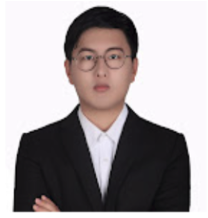
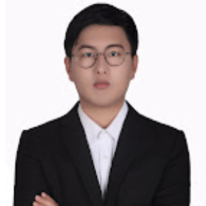
modify

diff --git a/index.html b/index.html
@@ -49,8 +49,8 @@
               </div>
               <div class="row">
                 <div class="col-md-8 col-md-offset-2 text-center inner">
-                  <h1 class="animated fadeInDown"><span>Light Up The Earth</span></h1>
-                  <p class="animated fadeInUp delay-05s" style="font-size: 20px;">A leisure PUZ game made by <em>Nine-AM</em></p>
+                  <h1 class="animated fadeInDown" id="teamname">Light Up The Earth</h1>
+                  <p class="animated fadeInUp delay-05s" style="font-size: 20px;" >A leisure PUZ game made by <em>Nine-AM</em></p>
                 </div>
               </div>
               <div class="row">
@@ -61,11 +61,12 @@
             </div>
           </section>
         </header>
-        <section class="intro text-center section-padding" id="intro">
+        <section class="intro text-center section-padding" id="intro" >
           <div class="container">
             <div class="row">
               <div class="col-md-8 col-md-offset-2 wp1">
                 <h1 class="arrow">Game Background Story Plot</h1>
+                <img src="img/LOGO.jpg" id="logo">
                 <!-- <p>Sed a lorem quis neque interdum <a href="#">consequat ut sed sem</a>. Duis quis tempor nunc. Interdum et malesuada fames ac ante ipsum primis in faucibus. Praesent id tempor ipsum. Fusce at massa ac nunc porta fringilla sed eget neque. Quisque quis pretium nulla. Fusce eget bibendum neque, vel volutpat augue. Lorem ipsum dolor sit amet, consectetur adipiscing elit. Interdum et malesuada fames ac ante ipsum primis in faucibus.</p> -->
                 <p>The background storyline of this game is based on <b style="color: #363636;">energy shortage and even depletion on Earth</b> many years later. Its main purpose is to remind everyone to <b style="color: #363636;">save energy and protect our Earth</b> by capturing and obtaining energy from space. <br /><br />“In 2066, earth resources deplete, and life on earth need more energy to survive. You, the bravest fighters, must go to space and take as much space energy as you can back to our planet! Now, please get on your spaceship and our mission will soon begin.”</p>
               </div>
@@ -274,65 +275,75 @@
                   <ul class="slides">
                     <li>
                       <div class="col-md-4 wp5">
-                        <img src="img/2-1.jpg" alt="Team Member">
+                        <img src="img/2-1.png" alt="Team Member">
                         <h2>Shenqi Ye</h2>
+                        <p>USC Graduate Student</p>
                         <p>Leader</p>
                         <div class="social">
                           <ul class="social-buttons">
                             <!-- <li><a href="#" class="social-btn"><i class="fa fa-dribbble"></i></a></li> -->
                             <!-- <li><a href="#" class="social-btn"><i class="fa fa-twitter"></i></a></li> -->
                             <li><a href="#" class="social-btn"><i class="fa fa-envelope-o"></i></a></li>
+                            shenqiye@usc.edu
                           </ul>
                         </div>
                       </div>
 
                       <div class="col-md-4 wp5 delay-05s">
-                        <img src="img/2-2.jpg" alt="Team Member">
+                        <img src="img/2-2.png" alt="Team Member">
                         <h2>Tianshu Wang</h2>
+                        <p>USC Graduate Student</p>
                         <p>3D</p>
                         <div class="social">
                           <ul class="social-buttons">
                             <!-- <li><a href="#" class="social-btn"><i class="fa fa-dribbble"></i></a></li> -->
                             <!-- <li><a href="#" class="social-btn"><i class="fa fa-twitter"></i></a></li> -->
                             <li><a href="#" class="social-btn"><i class="fa fa-envelope-o"></i></a></li>
+                            twang760@usc.edu
                           </ul>
                         </div>
                       </div>
                       <div class="col-md-4 wp5 delay-1s">
-                        <img src="img/2-3.jpg" alt="Team Member">
+                        <img src="img/2-3.jpeg" alt="Team Member">
                         <h2>Zhankai Ye</h2>
+                        <p>USC Graduate Student</p>
                         <p>3D; Music</p>
                         <div class="social">
                           <ul class="social-buttons">
                             <!-- <li><a href="#" class="social-btn"><i class="fa fa-dribbble"></i></a></li> -->
                             <!-- <li><a href="#" class="social-btn"><i class="fa fa-twitter"></i></a></li> -->
                             <li><a href="#" class="social-btn"><i class="fa fa-envelope-o"></i></a></li>
+                            zhankaiy@usc.edu
                           </ul>
                         </div>
                       </div>
                     </li>
                     <li>
                       <div class="col-md-4 wp5">
-                        <img src="img/2-4.jpg" alt="Team Member">
+                        <img src="img/2-4.jpeg" alt="Team Member">
                         <h2>Yingqi Liang</h2>
+                        <p>USC Graduate Student</p>
                         <p>2D; Website</p>
                         <div class="social">
                           <ul class="social-buttons">
                             <!-- <li><a href="#" class="social-btn"><i class="fa fa-dribbble"></i></a></li> -->
                             <!-- <li><a href="#" class="social-btn"><i class="fa fa-twitter"></i></a></li> -->
                             <li><a href="#" class="social-btn"><i class="fa fa-envelope-o"></i></a></li>
+                            yingqi@usc.edu
                           </ul>
                         </div>
                       </div>
                       <div class="col-md-4 wp5 delay-05s">
-                        <img src="img/2-5.jpg" alt="Team Member">
+                        <img src="img/2-5.jpeg" alt="Team Member">
                         <h2>Xiaoxuan Sun</h2>
+                        <p>USC Graduate Student</p>
                         <p>2D; Website</p>
                         <div class="social">
                           <ul class="social-buttons">
                             <!-- <li><a href="#" class="social-btn"><i class="fa fa-dribbble"></i></a></li> -->
                             <!-- <li><a href="#" class="social-btn"><i class="fa fa-twitter"></i></a></li> -->
                             <li><a href="#" class="social-btn"><i class="fa fa-envelope-o"></i></a></li>
+                            sunxiaox@usc.edu
                           </ul>
                         </div>
                       </div>

diff --git a/css/styles.css b/css/styles.css
@@ -126,6 +126,10 @@ button, input, select, textarea { font-size: 100%; /* 1 */
 *vertical-align: middle; /* 3 */ }
 /* * Addresses Firefox 3+ setting `line-height` on `input` using ` !important` in
 * the UA stylesheet. */
+#logo{
+	width:130px;
+	height:130px;
+}
 button, input { line-height: normal; }
 /* * 1. Avoid the WebKit bug in Android 4.0.* where (2) destroys native `audio`
 *    and `video` controls.
@@ -168,6 +172,10 @@ Tables
 ========================================================================== */
 /* * Remove most spacing between table cells. */
 table { border-collapse: collapse; border-spacing: 0; }
+#teamname{
+	color:white;
+}
+
 /* ==========================================================================
 Global Styles
 ========================================================================== */
@@ -198,7 +206,7 @@ nav ul li a { color: rgba(255, 255, 255, 0.6); display: block; padding: 20px; tr
 nav ul li a:hover, nav ul li a:focus { text-decoration: none; color: rgba(255, 255, 255, 1); }
 #nav-toggle { position: absolute; right: 15px; top: 0; }
 #nav-toggle { cursor: pointer; padding: 10px 35px 16px 0px; }
-#nav-toggle span, #nav-toggle span:before, #nav-toggle span:after { cursor: pointer; border-radius: 1px; -moz-border-radius: 1px; -webkit-border-radius: 1px; -o-border-radius: 1px; height: 5px; width: 35px; background: #3dc9b2; position: absolute; display: block; content: ''; }
+#nav-toggle span, #nav-toggle span:before, #nav-toggle span:after { cursor: pointer; border-radius: 1px; -moz-border-radius: 1px; -webkit-border-radius: 1px; -o-border-radius: 1px; height: 5px; width: 35px; background: ghostwhite; position: absolute; display: block; content: ''; }
 #nav-toggle span:before { top: -10px; }
 #nav-toggle span:after { bottom: -10px; }
 #nav-toggle span, #nav-toggle span:before, #nav-toggle span:after { transition: all 500ms ease-in-out; -webkit-transition: all 500ms ease-in-out; -moz-transition: all 500ms ease-in-out; -o-transition: all 500ms ease-in-out; }
@@ -282,7 +290,10 @@ CTA
 /* ==========================================================================
 Team
 ========================================================================== */
-.team img { margin-bottom: 40px; width: 50%;}
+#team{
+
+}
+.team img {margin-bottom: 40px; width: 50%;}
 .team p {font-size: 16px;}
 ul.social-buttons { list-style: none; margin: 0; padding: 0; }
 ul.social-buttons li { display: inline-block; margin-right: 10px; }
